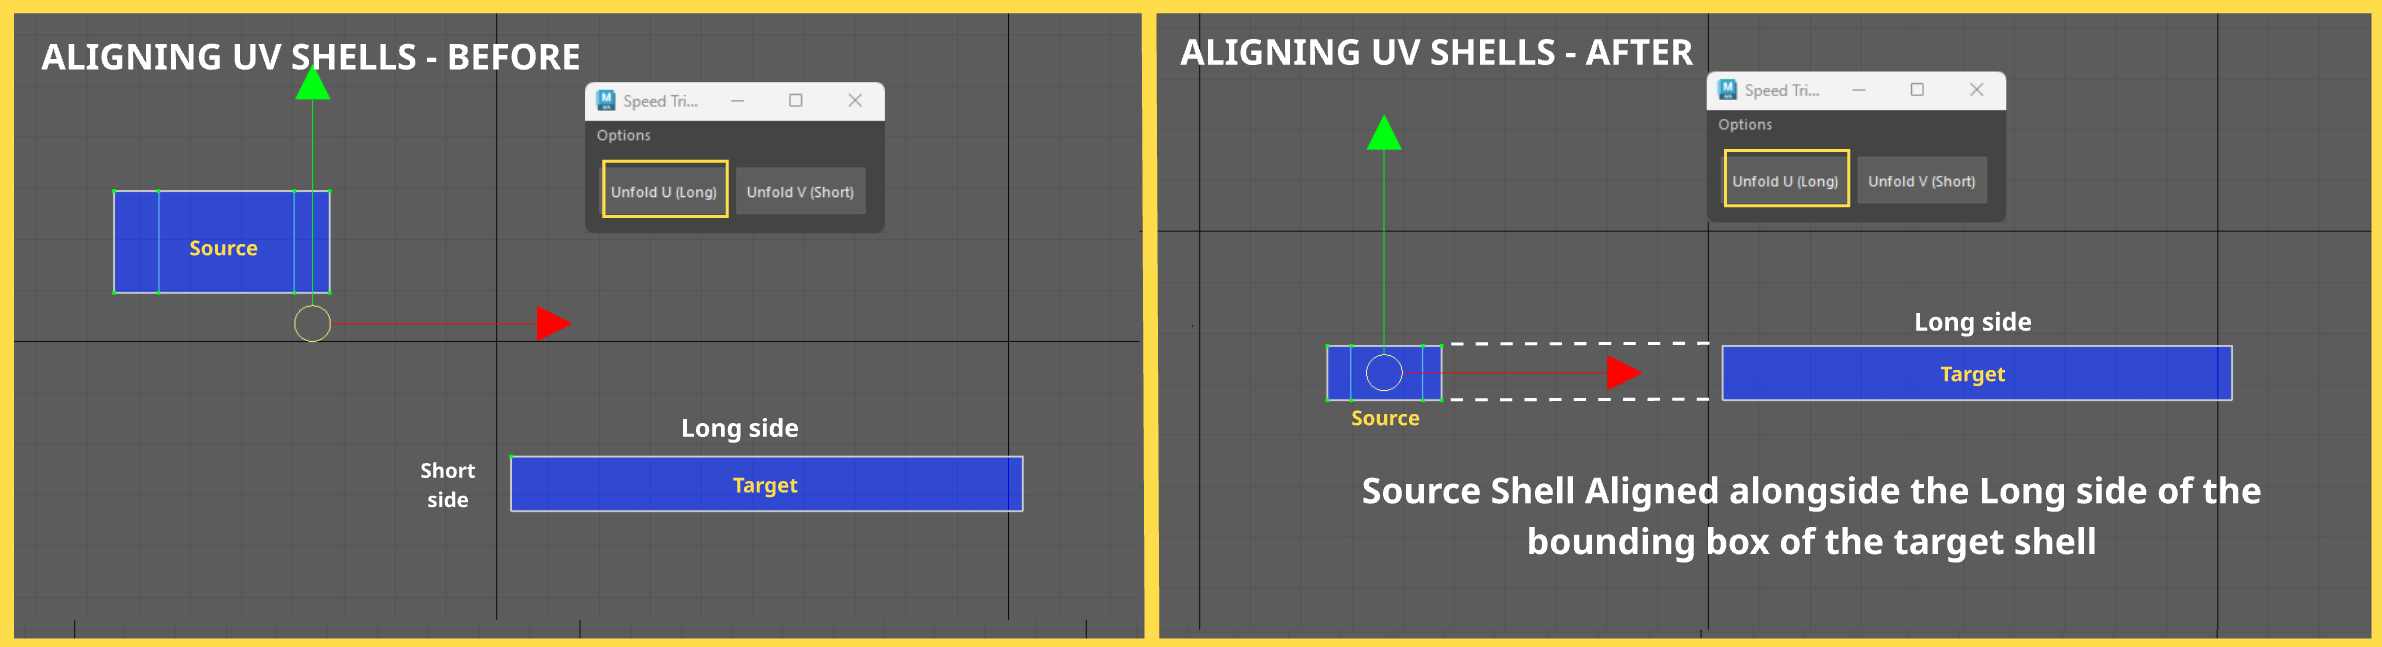
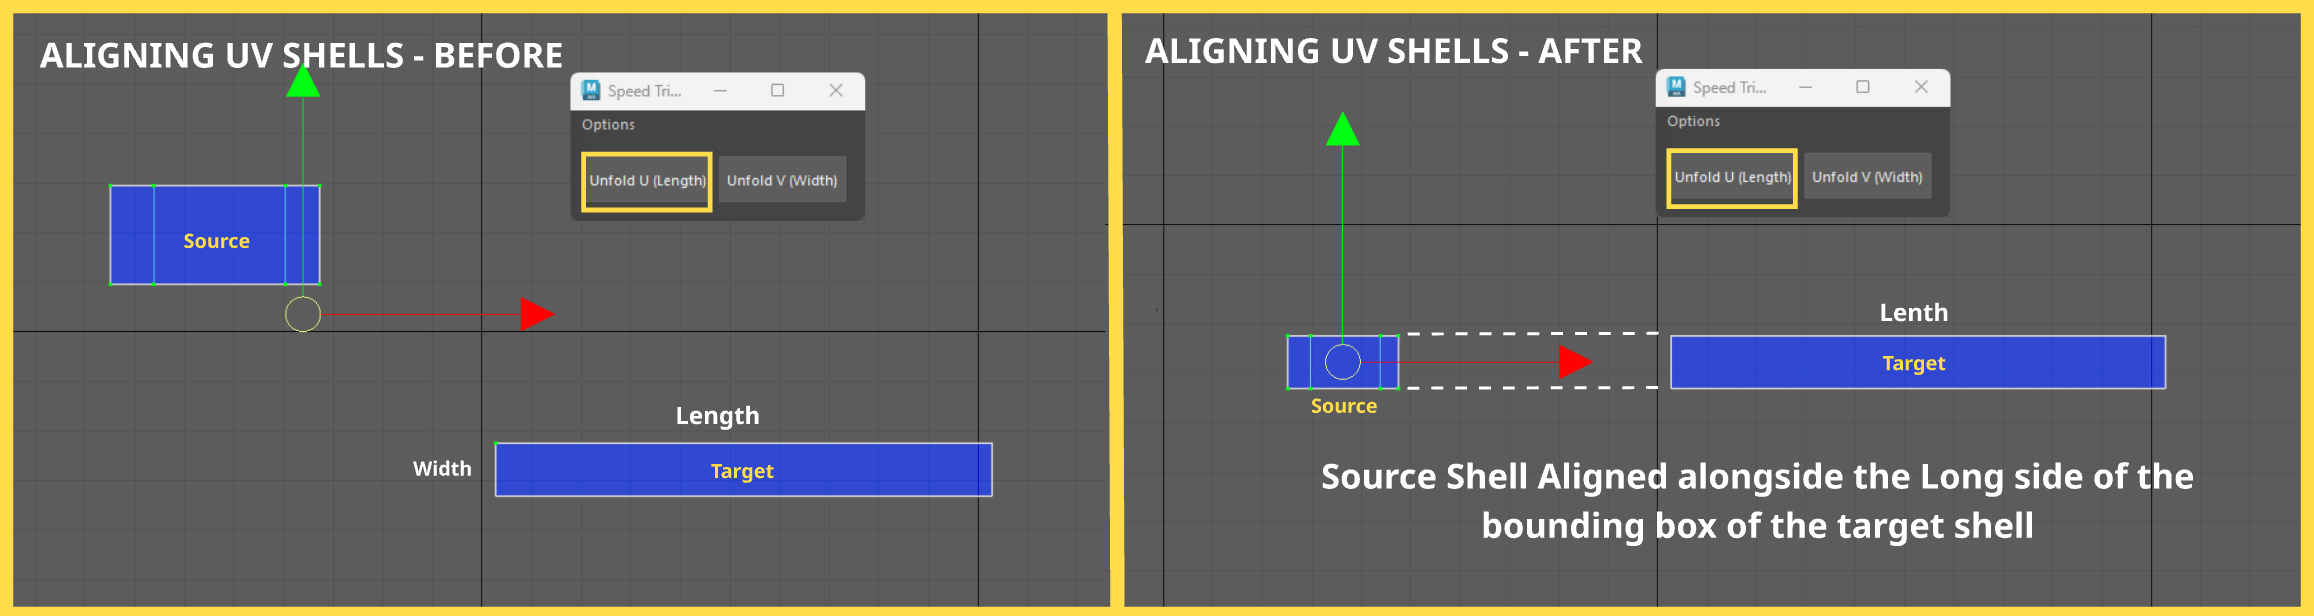
updated docs
updated docs

diff --git a/docs/Speed Trim Unfold/index.md b/docs/Speed Trim Unfold/index.md
@@ -112,18 +112,18 @@ Please check the Rules section
 
  The difference these make is when you have UV's selected. 
  
- - When aligning UVs to a target shell, the tool calcualtes the bounding box of that target shell. That calculation is how the tool know how to orient the source UV shells.  
-    * Clicking on the <span style="color:rgba(22, 165, 110, 1);">**Unfold U (Long)**</span> button: will unfold your selected *(source)* Trim sheets alongside the **long** side of the targets bounding box. 
+ - When aligning UVs to a target shell, the tool calcualtes the bounding box of that target shell. That calculation is how the tool knows how to orient the source UV shells.  
+    * Clicking on the <span style="color:rgba(22, 165, 110, 1);">**Unfold U (Length)**</span> button: will unfold your selected *(source)* Trim sheets alongside the **Length** of the targets bounding box. 
     ??? Tip "Tip - Hotkey"
-        * Since trim sheets are usually long thin strips of UV Shells, it is recommended to use this button as a hotkey, this will ensure your UVs will be aligned to the length of your target UV shells. 
+        * Since trim sheets are usually long thin strips of UV Shells, it is recommended to use this button as a hotkey, this will ensure your UVs will be aligned to the length of your target UV shells *(horizontally and vertically)*. 
 
     ![Speed Trim multi select](images/Speed_Trim_button_1.png){ .img-medium .img-centered }
 
-     *  Clicking on the <span style="color:rgba(22, 165, 110, 1);">**Unfold V (Short)**</span> button: will unfold your selected *(source)* Trim sheets alongside the **short** side of the targets bounding box. 
+     *  Clicking on the <span style="color:rgba(22, 165, 110, 1);">**Unfold V (Width)**</span> button: will unfold your selected *(source)* Trim sheets alongside the **width** of the targets bounding box. 
 
     ![Speed Trim multi select](images/Speed_Trim_button_2.png){ .img-medium .img-centered }
 
-    * Please note that the long side of the source shells is being used to **align** towards the target shells.
+    * Please note that the length of the **source** shells is being used to **align** towards the target shells.
 
     * Here's a basic demonstration:
 
